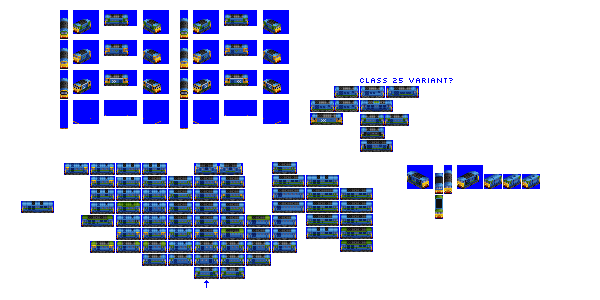
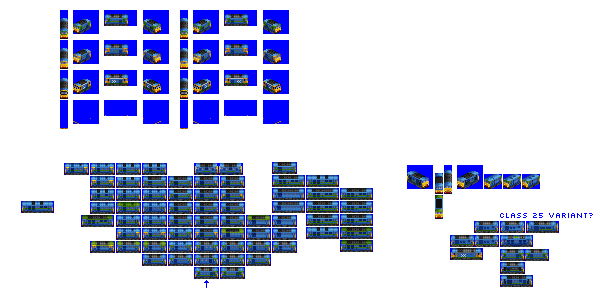
Change: provide support for engine variants with differing numbers of units, and provide proof-of-concept with 2-unit Kelpie and 1-unit Chinook

Changed region(s): [[0.75, 0.69, 0.93, 0.96], [0.51, 0.24, 0.75, 0.51], [0.93, 0.69, 0.99, 0.72]]

diff --git a/src/train.py b/src/train.py
@@ -6,6 +6,7 @@ import sys
 
 sys.path.append(os.path.join("src"))  # add to the module search path
 
+import copy
 import math
 import random
 
@@ -62,6 +63,10 @@ class Consist(object):
         self.use_named_buyable_variant_group = None
         # create a structure to hold the units
         self.units = []
+        # we clone some consists to make alternate length variants, we need to track that
+        self.clones = []
+        # store the consist this was cloned from, may also be used to determine if this is a clone or not
+        self.cloned_from_consist = None
         # either gen xor intro_year is required, don't set both, one will be interpolated from the other
         self._intro_year = kwargs.get("intro_year", None)
         self._gen = kwargs.get("gen", None)
@@ -169,6 +174,42 @@ class Consist(object):
         self.sprites_additional_liveries_potential = kwargs.get(
             "sprites_additional_liveries_potential", False
         )
+
+    def clone(self, **kwargs):
+        # consists have support for optional clones, which are used to provide variants of different lengths
+        # e.g. diesels with 1 or 2 units, and similar
+        # a consist can have more than one clone variant
+        # parameters
+        # - base_numeric_id: (int) used for the cloned consist
+        # - clone_units: [repeat=n1, repeat=n2] etc for each unit defined in the original consist
+        # so to extend a 1 unit consist to a 2 unit variant: clone_units=[2]
+        # to shorten a 2 unit consist to a 1 unit variant: clone_units=[1, 0]
+
+        # we clone the consist by copying the current consist, this is the simplest way to not get caught out by any properties in subclasses
+        cloned_consist = copy.deepcopy(self)
+        cloned_consist.cloned_from_consist = self
+        cloned_consist.id = self.id + "_clone_" + str(len(self.clones))
+        cloned_consist.base_numeric_id = kwargs["base_numeric_id"]
+        cloned_consist._buyable_variant_group_id = self.id
+        # purchase menu variant decor isn't supported if the consist is articulated, so just forcibly clear this property
+        cloned_consist.show_decor_in_purchase_for_variants = []
+        # we have to recreate the units from scratch using the original classes and kwargs stored when they were inited
+        # this is faff, but is the simplest available method due to the way the structure for units + buyable_variants is constructed and unit_variant IDs assigned
+        cloned_consist.units = []
+        for counter, unit in enumerate(self.units):
+            unit_kwargs = unit.kwargs_for_optional_consist_cloning_later.copy()
+            del unit_kwargs["consist"] # drop this, it's re-added to kwargs later by add_unit, which will cause an error to be thrown
+            cloned_consist.add_unit(
+                type(unit), repeat=kwargs["clone_units"][counter], **unit_kwargs
+            )
+        # we'll need to adjust some stats, e.g. power, running_cost etc
+        cloned_consist.stats_adjustment_factor = len(cloned_consist.units) / len(self.units)
+        # recalculate power
+        for power_type, power_value in self.power_by_power_source.items():
+            cloned_consist.power_by_power_source[power_type] = int(power_value * cloned_consist.stats_adjustment_factor)
+
+        self.clones.append(cloned_consist)
+        # no return needed
 
     def resolve_buyable_variants(self):
         # this method can be over-ridden per consist subclass as needed
@@ -1262,6 +1303,10 @@ class EngineConsist(Consist):
 
     @property
     def buy_cost(self):
+        # first check if we're simply a clone, because then we just take the costs from the clone source vehicle, and adjust them to account for differing number of units
+        if self.cloned_from_consist is not None:
+            return int(self.cloned_from_consist.buy_cost * self.stats_adjustment_factor)
+
         # max speed = 200mph by design - see assert_speed()
         # multiplier for speed, max value will be 25
         speed_cost_points = self.speed / 8
@@ -1295,6 +1340,11 @@ class EngineConsist(Consist):
     def running_cost(self):
         # algorithmic calculation of engine run costs
         # as of Feb 2019, it's fixed cost (set by subtype) + floating costs (derived from power, speed, weight)
+
+        # first check if we're simply a clone, because then we just take the costs from the clone source vehicle, and adjust them to account for differing number of units
+        if self.cloned_from_consist is not None:
+            return int(self.cloned_from_consist.running_cost * self.stats_adjustment_factor)
+
         # note some string to handle NG trains, which tend to have a smaller range of speed, cost, power
         is_NG = True if self.base_track_type_name == "NG" else False
         # max speed = 200mph by design - see assert_speed() - (NG assumes 100mph max)
@@ -1550,9 +1600,13 @@ class MailEngineRailcarConsist(MailEngineConsist):
                 "special": 0,
             }
         if self.role_child_branch_num in [2]:
-            liveries = self.roster.get_pax_mail_liveries("diesel_railcar_mail_liveries", **kwargs)
+            liveries = self.roster.get_pax_mail_liveries(
+                "diesel_railcar_mail_liveries", **kwargs
+            )
         else:
-            liveries = self.roster.get_pax_mail_liveries("electric_railcar_mail_liveries", **kwargs)
+            liveries = self.roster.get_pax_mail_liveries(
+                "electric_railcar_mail_liveries", **kwargs
+            )
         self.gestalt_graphics = GestaltGraphicsConsistPositionDependent(
             spriterow_group_mappings,
             consist_ruleset=consist_ruleset,
@@ -1881,9 +1935,13 @@ class PassengerEngineRailcarConsist(PassengerEngineConsist):
         # ruleset will combine these to make multiple-units 1, 2, or 3 vehicles long, then repeating the pattern
         spriterow_group_mappings = {"default": 0, "first": 1, "last": 2, "special": 3}
         if self.role_child_branch_num in [2]:
-            liveries = self.roster.get_pax_mail_liveries("suburban_pax_liveries", **kwargs)
+            liveries = self.roster.get_pax_mail_liveries(
+                "suburban_pax_liveries", **kwargs
+            )
         else:
-            liveries = self.roster.get_pax_mail_liveries("default_pax_liveries", **kwargs)
+            liveries = self.roster.get_pax_mail_liveries(
+                "default_pax_liveries", **kwargs
+            )
         self.gestalt_graphics = GestaltGraphicsConsistPositionDependent(
             spriterow_group_mappings,
             consist_ruleset="railcars_3_unit_sets",
@@ -6911,6 +6969,8 @@ class Train(object):
         self._symmetry_type = kwargs.get("symmetry_type", "symmetric")
         # optional - a switch name to trigger re-randomising vehicle random bits - override as need in subclasses
         self.random_trigger_switch = None
+        # store the kwargs so we can clone this unit later if we need to
+        self.kwargs_for_optional_consist_cloning_later = kwargs
 
     def get_capacity_variations(self, capacity):
         # capacity is variable, controlled by a newgrf parameter

diff --git a/src/doc_helper.py b/src/doc_helper.py
@@ -52,7 +52,7 @@ class DocHelper(object):
 
     def get_engines_by_roster_and_base_track_type(self, roster, base_track_type_name):
         result = []
-        for consist in roster.engine_consists:
+        for consist in roster.engine_consists_excluding_clones:
             if consist.base_track_type_name == base_track_type_name:
                 result.append(consist)
         return result
@@ -130,7 +130,7 @@ class DocHelper(object):
         # - powered cabooses for propelling
         # - we also exclude engines with Gronk! role because they're silly
         result = []
-        for consist in roster.engine_consists:
+        for consist in roster.engine_consists_excluding_clones:
             # this is JFDI reuse of existing attributes, if this gets flakey add a dedicated attribute for exclusion
             if (
                 consist.buy_menu_additional_text_hint_driving_cab
@@ -281,7 +281,7 @@ class DocHelper(object):
 
         # for vehicle_type, vehicle_consists in [engines, wagons]:
         # parse the engine and wagon consists into a consistent structure
-        engines = ("engines", roster.engine_consists)
+        engines = ("engines", roster.engine_consists_excluding_clones)
         wagon_consists = []
         for wagon_class in global_constants.buy_menu_sort_order_wagons:
             wagon_consists.extend(

diff --git a/src/roster.py b/src/roster.py
@@ -58,6 +58,16 @@ class Roster(object):
         return result
 
     @property
+    def engine_consists_excluding_clones(self):
+        # we don't always want clones in the engine list (e.g. when generating tech tree in docs and similar cases)
+        # this is a convenience wrapper to knock out any clones from engine list
+        return [
+            engine_consist
+            for engine_consist in self.engine_consists
+            if engine_consist.cloned_from_consist is None
+        ]
+
+    @property
     def consists_in_buy_menu_order(self):
         result = []
         result.extend(self.engine_consists)
@@ -355,6 +365,9 @@ class Roster(object):
         for engine in self.engines:
             consist = engine.main(self.id)
             self.engine_consists.append(consist)
+            # clone consists are used to handle articulated engines of with length variants, e.g. diesels with variants of 1 or 2 units; more than one clone is supported
+            for cloned_consist in consist.clones:
+                self.engine_consists.append(cloned_consist)
         self.wagon_consists = dict(
             [(base_id, []) for base_id in global_constants.buy_menu_sort_order_wagons]
         )

diff --git a/src/render_docs.py b/src/render_docs.py
@@ -358,7 +358,8 @@ def main():
     static_dir_dst = os.path.join(html_docs_output_path, "static")
     shutil.copytree(static_dir_src, static_dir_dst)
 
-    consists = roster.consists_in_buy_menu_order
+    # note we remove any consists that are clones, we don't need them in docs
+    consists = [consist for consist in roster.consists_in_buy_menu_order if consist.cloned_from_consist == None]
     # default sort for docs is by intro year
     consists = sorted(consists, key=lambda consist: consist.intro_year)
     dates = sorted([i.intro_year for i in consists])
@@ -412,7 +413,7 @@ def main():
     # render vehicle details
     # this is slow and _might_ go faster in an MP pool, but eh overhead...
     render_vehicle_details_start = time()
-    for consist in roster.engine_consists:
+    for consist in roster.engine_consists_excluding_clones:
         consist.assert_description_foamer_facts()
         render_docs_vehicle_details(
             consist,

diff --git a/src/gestalt_graphics/pipelines.py b/src/gestalt_graphics/pipelines.py
@@ -35,12 +35,16 @@ class Pipeline(object):
     def vehicle_source_input_path(self):
         # convenience method to get the vehicle template image
         # I considered having this return the Image, not just the path, but it's not saving much, and is less obvious what it does when used
+        if self.consist.cloned_from_consist is not None:
+            consist_filename_stem = self.consist.cloned_from_consist.id
+        else:
+            consist_filename_stem = self.consist.id
         return os.path.join(
             currentdir,
             "src",
             "graphics",
             self.consist.roster_id,
-            self.consist.id + ".png",
+            consist_filename_stem + ".png",
         )
 
     @property

diff --git a/src/vehicles/chinook.py b/src/vehicles/chinook.py
@@ -35,4 +35,6 @@ def main(roster_id):
     consist.description = """I send these out in twos."""
     consist.foamer_facts = """BR Class 20, uprated EE 8CSVT prime mover"""
 
+    consist.clone(base_numeric_id=9850, clone_units=[1, 0])
+
     return consist

diff --git a/src/vehicles/kelpie.py b/src/vehicles/kelpie.py
@@ -31,4 +31,6 @@ def main(roster_id):
     consist.description = """Neat these are, to my mind."""
     consist.foamer_facts = """BR Class 26/27/33"""
 
+    consist.clone(base_numeric_id=450, clone_units=[2])
+
     return consist
